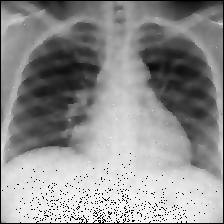
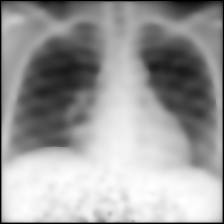
adding results

diff --git a/Perona_Malik_Base.py b/Perona_Malik_Base.py
@@ -9,9 +9,13 @@ def diffusion_coeff2(I, k):
     denom = 1 + (np.power(I, 2)/np.power(k, 2))
     return 1/denom
 
-def custom_coeff(I, k):
+def custom_coeff1(I, k):
     inside = ((I*np.sqrt(3))/(k*np.sqrt(2)))**2
     return 0.6*np.exp(-inside)
+
+def custom_coeff(I, k):
+    inside = ((I*np.sqrt(3))/(k*np.sqrt(2)))**2
+    return (0.04+0.2*np.exp(-inside))
 
 
 def diffusion(img, iters, k, lam=0.12, coeff=1):
@@ -30,19 +34,19 @@ def diffusion(img, iters, k, lam=0.12, coeff=1):
 
         if coeff == 1:
             img_new[1:-1, 1:-1] = img[1:-1, 1:-1] + \
-                                 lam * (diffusion_coeff1(NORTH, k) * NORTH +
+                                 (diffusion_coeff1(NORTH, k) * NORTH +
                                         diffusion_coeff1(SOUTH, k) * SOUTH +
                                         diffusion_coeff1(EAST, k) * EAST +
                                         diffusion_coeff1(WEST, k) * WEST)
         elif coeff == 2:
             img_new[1:-1, 1:-1] = img[1:-1, 1:-1] + \
-                                 lam * (diffusion_coeff2(NORTH, k) * NORTH +
+                                 (diffusion_coeff2(NORTH, k) * NORTH +
                                         diffusion_coeff2(SOUTH, k) * SOUTH +
                                         diffusion_coeff2(EAST, k) * EAST +
                                         diffusion_coeff2(WEST, k) * WEST)
         else:
             img_new[1:-1, 1:-1] = img[1:-1, 1:-1] + \
-                                 lam * (custom_coeff(NORTH, k) * NORTH +
+                                 (custom_coeff(NORTH, k) * NORTH +
                                         custom_coeff(SOUTH, k) * SOUTH +
                                         custom_coeff(EAST, k) * EAST +
                                         custom_coeff(WEST, k) * WEST)

diff --git a/main.py b/main.py
@@ -15,7 +15,7 @@ params = {
     'shot': {'iters': 30, 'k': .1},
     's&p': {'iters': 30, 'k': .1}
 }
-coeff = 1
+coeff = 3
 for noise in types_of_noise:
     print('----- Running experiment for ' + noise + ' Noise -----')
     # For each type of noise, run Perona-Malik
